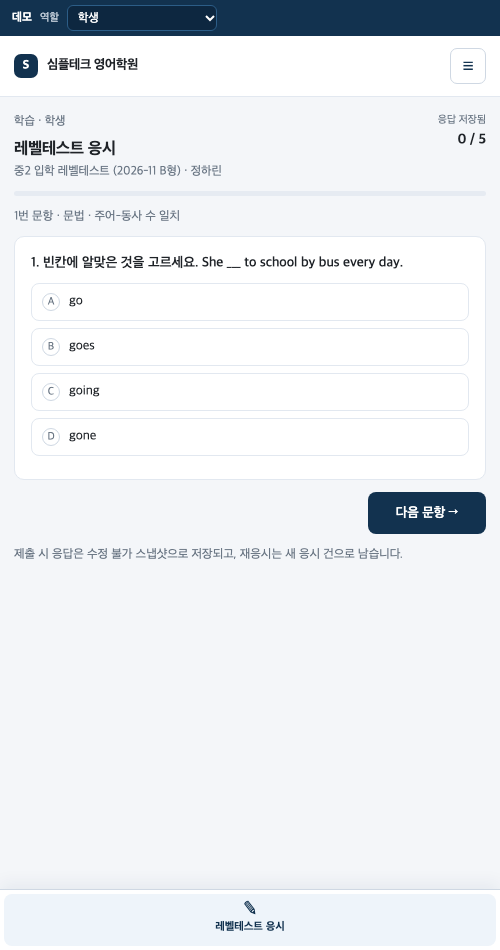
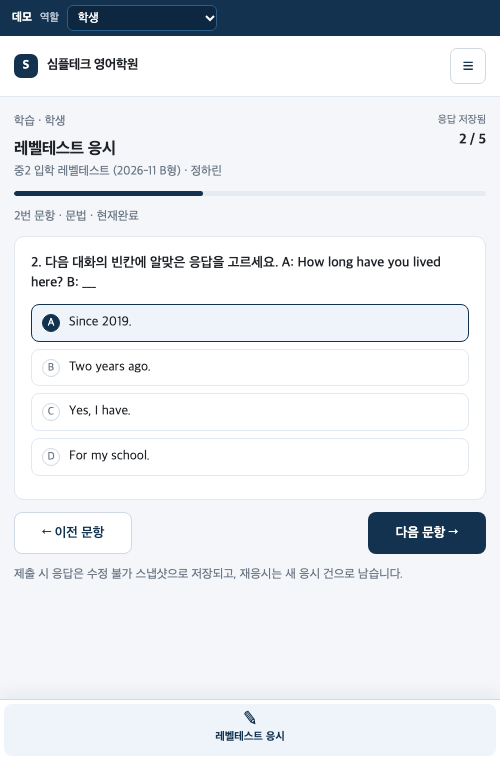
시험 진행 표시를 버튼 사이로 옮김
이전·다음 버튼 사이에 '2 / 5' 문항 번호와 진행 막대를 넣고, 상단에 있던
별도 진행바는 제거.

diff --git a/index.html b/index.html
@@ -153,6 +153,12 @@
   .qnav{display:flex;justify-content:space-between;align-items:center;gap:10px;margin-top:8px}
   .qnav-btn{min-width:118px;justify-content:center;padding:9px 14px}
   .qnav-spacer{min-width:118px}
+  .qnav-mid{flex:1;display:flex;flex-direction:column;align-items:center;gap:5px;min-width:0}
+  .qnav-count{font-size:12px;font-weight:700;color:var(--navy);letter-spacing:.02em}
+  .qnav-count span{color:var(--muted);font-weight:600}
+  .qnav-bar{display:block;width:100%;max-width:112px;height:4px;border-radius:3px;
+    background:#e6ebf2;overflow:hidden}
+  .qnav-bar>i{display:block;height:100%;background:var(--navy);border-radius:3px;transition:width .18s}
   /* 시험 진행 표시 */
   .prog{height:5px;border-radius:4px;background:#e6ebf2;overflow:hidden;margin:2px 0 12px}
   .prog>i{display:block;height:100%;background:var(--navy);border-radius:4px;transition:width .18s}
@@ -537,7 +543,6 @@ function vExam(){
   const i = state.qIndex || 0;
   const it = e.items[i];
   const answered = Object.keys(state.answers).length;
-  const pct = Math.round(answered / e.total * 100);
   const isLast = i === e.total - 1;
   return `
   <header class="page">
@@ -545,7 +550,6 @@ function vExam(){
     <div class="sub">${e.test} · ${e.student}</div></div>
     <div style="text-align:right"><div class="note">응답 저장됨</div><b>${answered} / ${e.total}</b></div>
   </header>
-  <div class="prog"><i style="width:${pct}%"></i></div>
   <p class="note" style="margin-bottom:10px">${i+1}번 문항 · ${it.area}</p>
   <div class="q">
     <div class="qt">${i+1}. ${it.q}</div>
@@ -556,6 +560,10 @@ function vExam(){
     ${i>0
       ? `<button class="btn ghost qnav-btn" onclick="prevQ()">← 이전 문항</button>`
       : `<span class="qnav-spacer"></span>`}
+    <div class="qnav-mid">
+      <span class="qnav-count">${i+1} / ${e.total}</span>
+      <span class="qnav-bar"><i style="width:${Math.round((i+1)/e.total*100)}%"></i></span>
+    </div>
     ${isLast
       ? `<button class="btn qnav-btn" onclick="submitExam()">제출하기</button>`
       : `<button class="btn qnav-btn" onclick="nextQ()">다음 문항 →</button>`}
